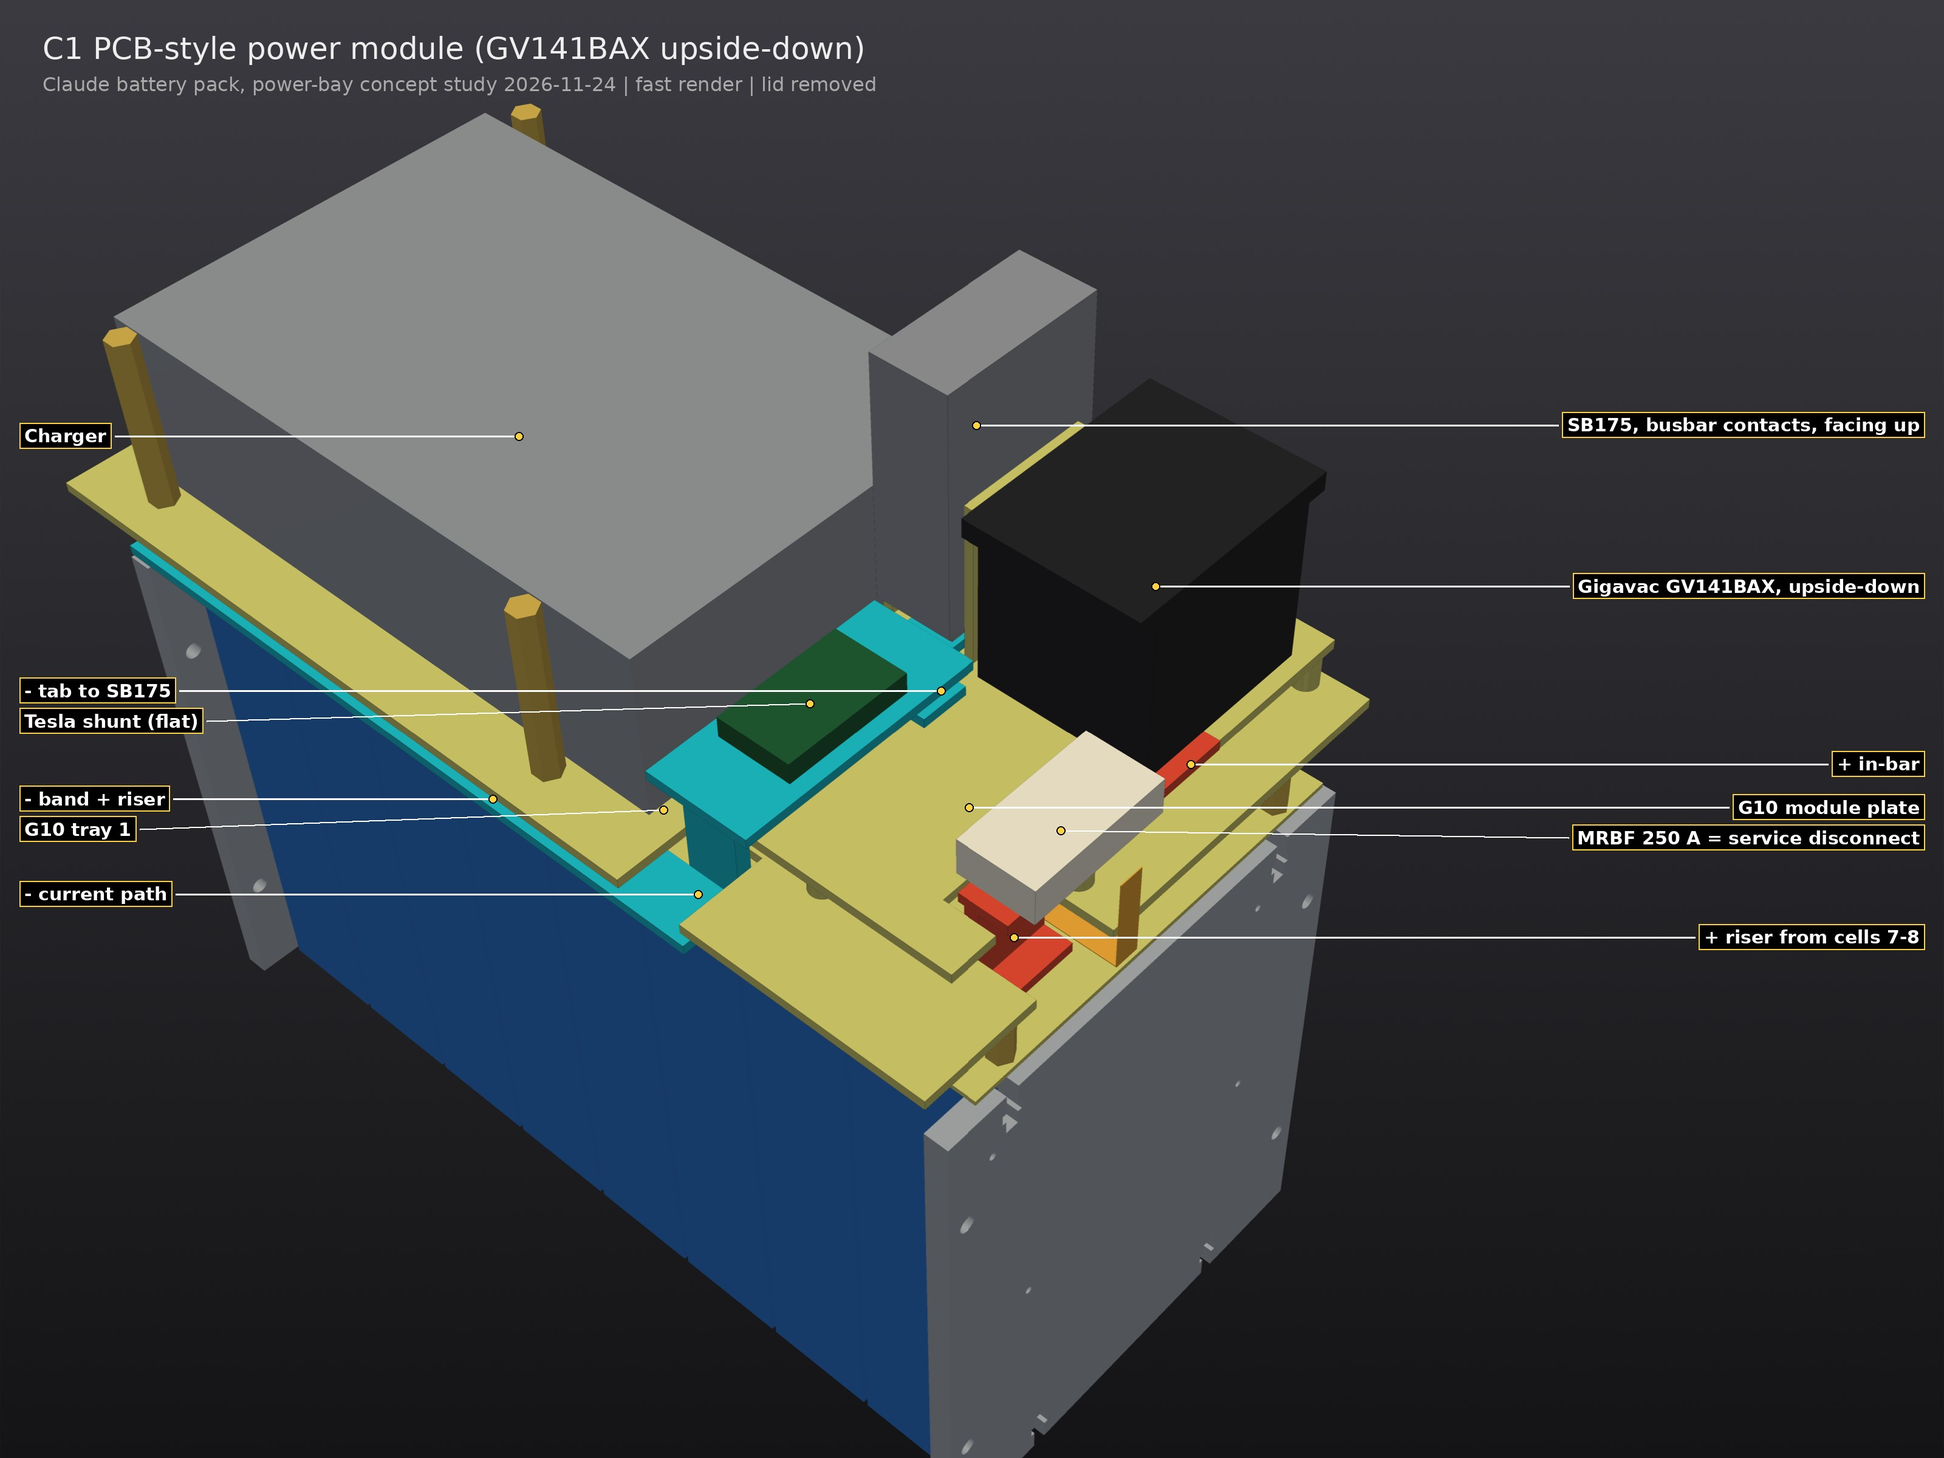
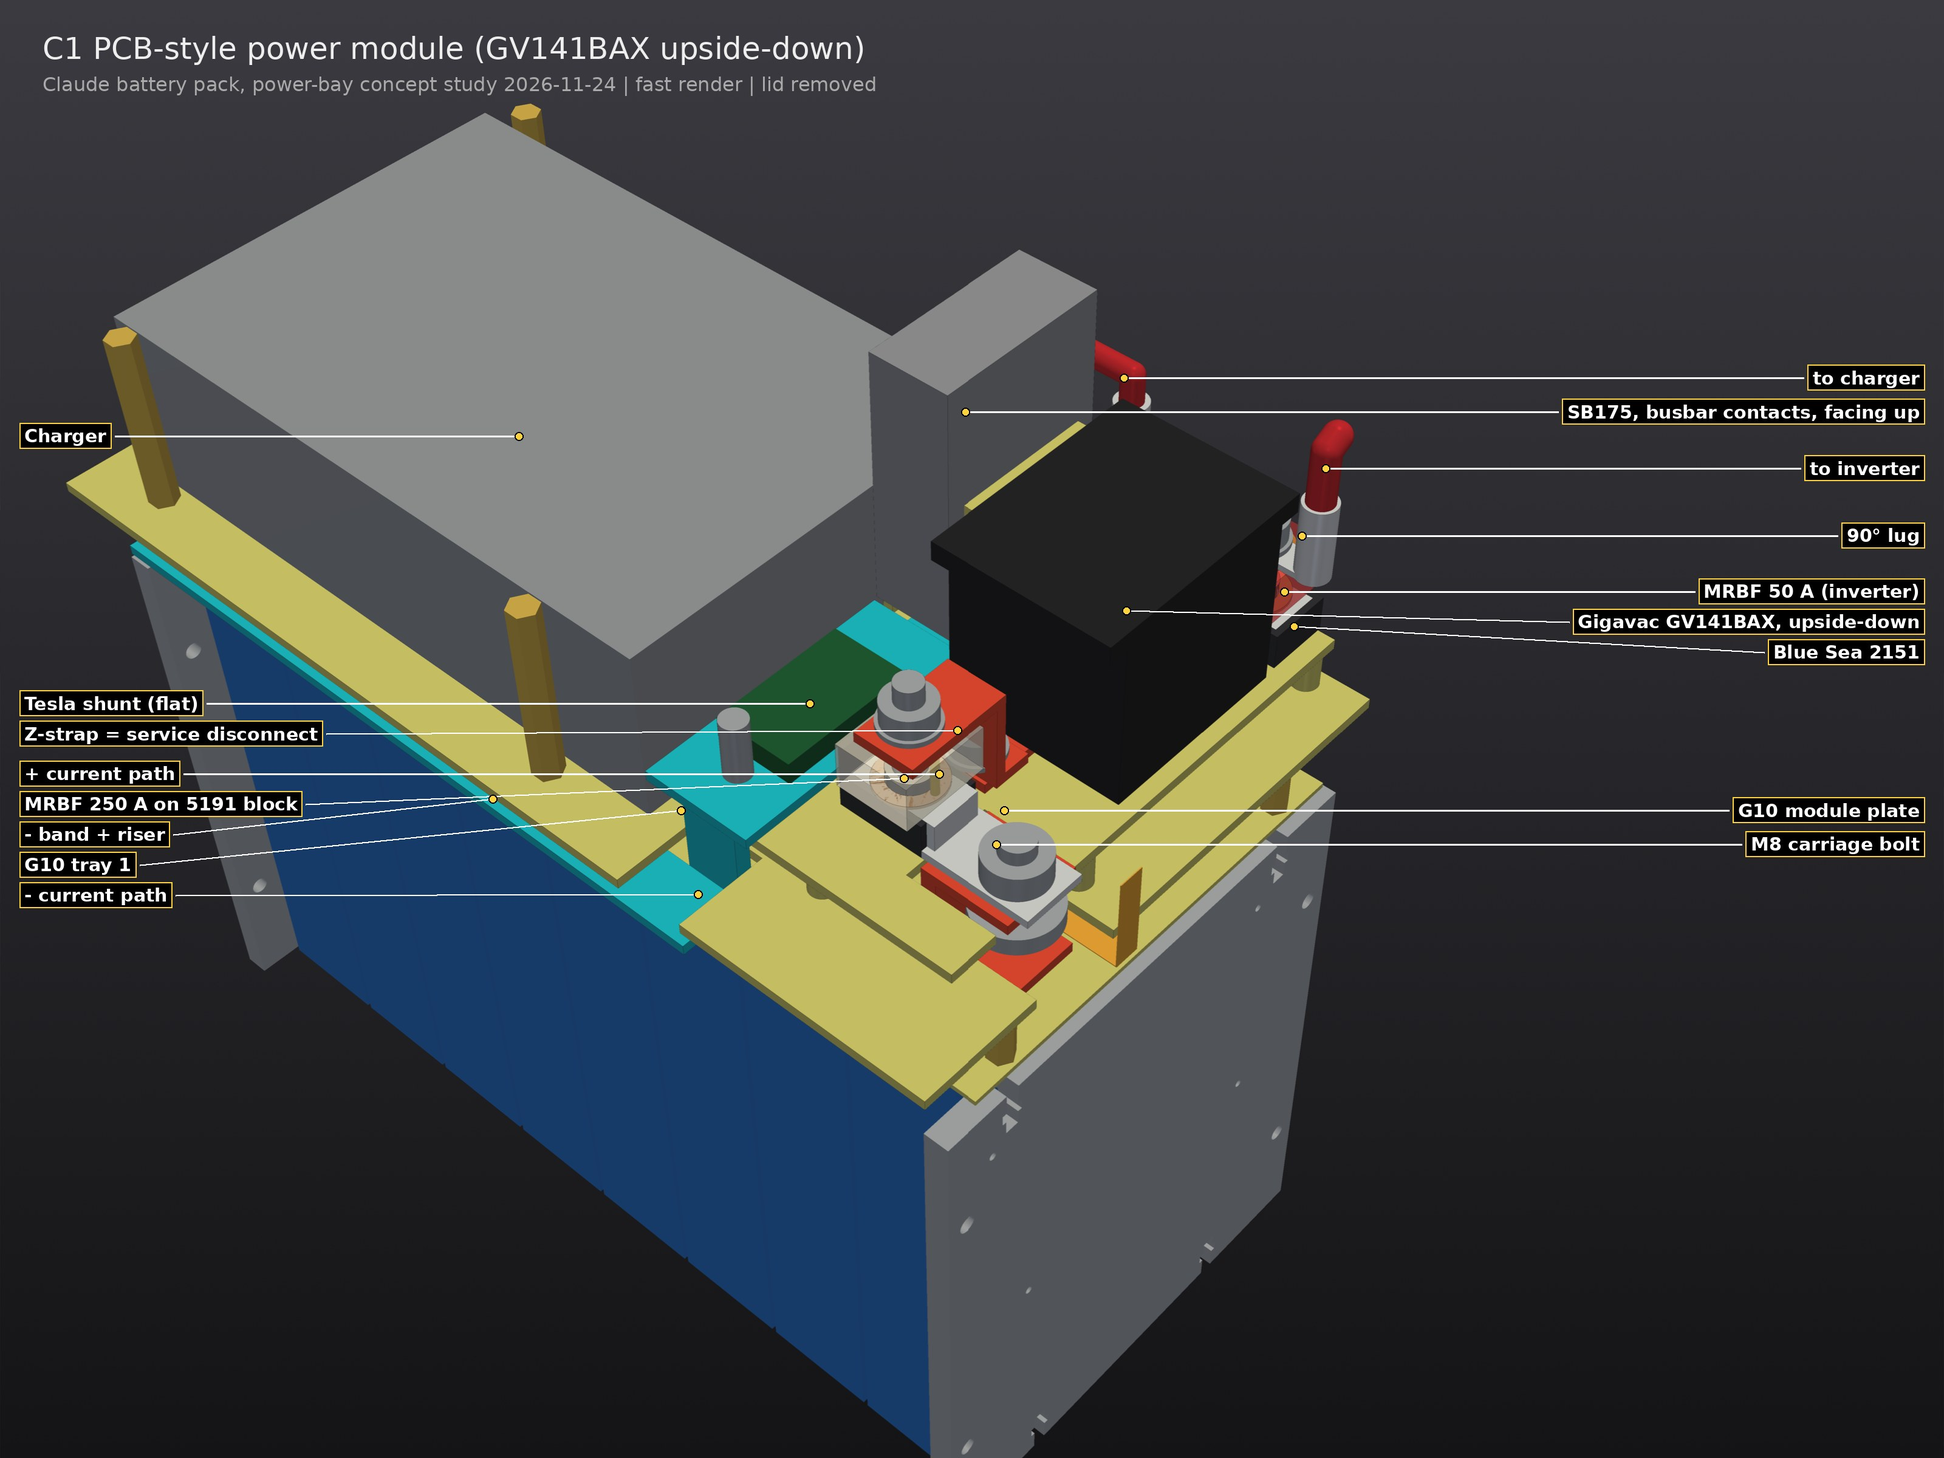
C1: real 5191 main fuse + Z-strap, 2151 on load-bar branch, contactor -11 y, riser to x 124, explicit hw allow list
Claude-Session: https://claude.ai/code/session_019xZm2J76p2BdyX92jNMr7E

diff --git a/cad/concepts/contactor/c1_power_module.py b/cad/concepts/contactor/c1_power_module.py
@@ -25,13 +25,15 @@ def build(variant="gv14"):
     for i, (x, y) in enumerate((sbn, sbp)):
         c.add(f"hw_stud_sb_{i}", cyl_z(x, y, Zp0 - 3.175 - 7.0, z_bus, 3.175))             # 180BBS 1/4-20 stud
         c.add(f"hw_locknut_sb_{i}", cyl_z(x, y, Zp0 - 3.175 - 5.6, Zp0 - 3.175, 6.4))     # 110G56 lock nut
-    for i, (x, y) in enumerate(((144.0, -33.5), (144.0, -1.0), (SBX, sh_y1 - 68.5 if False else -54.5))):
-        c.add(f"hw_carriage_{i}", cyl_z(x, y, Zp0 - 4.5, Zp1 + 22.0, 4.0))                 # M8 carriage bolt, square neck in a square hole
-        c.add(f"hw_carriage_head_{i}", cyl_z(x, y, Zp0 - 4.5 - 4.6, Zp0 - 4.5 + 0.01, 10.0))
+    # carriage bolts (square neck in a square hole), heads under the copper; M10 for the MRBF blocks, M8 elsewhere
+    for i, (x, y, r, rh, top) in enumerate(((144.0, -33.5, 5.0, 12.5, Zp1 + 15.0), (SBX, -54.5, 4.0, 10.0, Zp1 + 22.0),
+                                            (109.6, -9.5, 4.0, 10.0, Zp1 + 3.175 + 13.0), (70.7, 76.0, 5.0, 12.5, Zp1 + 15.0))):
+        c.add(f"hw_carriage_{i}", cyl_z(x, y, Zp0 - 4.5, top, r))
+        c.add(f"hw_carriage_head_{i}", cyl_z(x, y, Zp0 - 4.5 - 5.6, Zp0 - 4.5 + 0.01, rh))
     for i, x0 in enumerate((SBX - 12.7 - 3.2, SBX + 12.7)):        # G10 cheeks bolted through the housing's two mounting holes
         c.add(f"g10_sb_cheek_{i}", box(x0, x0 + 3.2, SBY - 22, SBY + 22, Zp1, Zp1 + 52), "ins")
     # ---------- switch ----------
-    CX, CY = 120.0, 41.2
+    CX, CY = 120.0, 30.2                 # -11 mm in y vs 2026-11-23: makes room for the 2151 along the +y wall
     if variant == "gv14":
         ct, (t1, t2) = gv14_pcb(CX, CY, Zp1, axis="y", flip=True)
         c.add("contactor_gv14_pcb", ct)
@@ -55,17 +57,40 @@ def build(variant="gv14"):
     # ---------- + path ----------
     # P4 collector -> vertical riser at the +x end -> flange at the module copper plane (in a plate notch)
     pc = pack_pos_collector()
-    pc += box(138.0, 142.76, -46.0, -21.0, Z0, Zp1)                    # riser (x 138: >= 10 mm from the upper standoff)
-    pc += box(136.0, 152.0, -46.0, -21.0, Zp0, Zp1)                     # flange, top flush with the module copper
+    pc += box(124.0, 128.76, -46.0, -21.0, Z0, Zp1)                    # riser (moved from x 138: the M10 head under the flange hit it)
+    pc += box(124.0, 152.0, -46.0, -21.0, Zp0, Zp1)                     # flange = 5191 seat, top flush with the module copper
     c.add("bus_pack_pos", pc, "pos")
-    inb = box(136.0, 152.0, -9.0, t1[1] + 8.0, Zp0, Zp1) + box(t1[0] - 8.0, 152.0, t1[1] - 8.0, t1[1] + 8.0, Zp0, Zp1)
+    inb = box(101.6, t1[0] + 8.0, t1[1] - 8.0, t1[1] + 8.0, Zp0, Zp1) + box(101.6, 117.6, -15.0, t1[1] - 8.0, Zp0, Zp1)
     c.add("bus_mod_in", inb, "pos")                                       # flat-cut L: no bends
-    c.add("mrbf_main", mrbf_link((144.0, -33.5), (144.0, -1.0), Zp1), "pos")
-    ld = box(SBX - 8.0, t2[0] + 8.0, t2[1] - 8.0, t2[1] + 8.0, Zp0, Zp1)  # load bar: T2 -> SB+ (straight)
-    ld += box(SBX - 8.0, SBX + 8.0, sbp[1] - 8.0, t2[1] + 8.0, Zp0, Zp1)
-    ld += box(78.0, 100.0, t2[1] + 8.0, 84.0, Zp0, Zp1)                  # branch tab for the converter fuses
+    # main fuse: Blue Sea 5191 on the M10 stud in the + flange, pointing -x; MRBF 250 A on it. Output is the fuse TOP,
+    # so a Z-strap (1/8 in copper, 22 wide, 2 bends) brings it back down to the in-bar. Strap = last part in = service disconnect.
+    mp, mst, mzt = bs_block("5191", 144.0, -33.5, Zp1, d=(-1, 0), prefix="bs5191")
+    for n, (sh, r) in mp.items():
+        c.add(n, sh, r)
+    c.add("hw_m10nut_main", cyl_z(144.0, -33.5, Zp1 + 2.5, Zp1 + 10.5, 9.25) - cyl_z(144.0, -33.5, Zp1, Zp1 + 12, 5.0))
+    sx, sy = mst[0]
+    zs1 = mzt + 3.175
+    st = box(sx - 8, sx + 11, -44.5, -10.8, mzt, zs1) + box(sx - 8, sx + 11, -14.0, -10.8, Zp1, zs1) + box(sx - 8, sx + 11, -14.0, -2.0, Zp1, Zp1 + 3.175)   # x >= 101.6: 10.9 mm to the - stud area
+    st -= cyl_z(sx, sy, mzt - 1, zs1 + 1, 4.3) + cyl_z(sx, -9.5, Zp1 - 1, Zp1 + 4.2, 4.3)
+    c.add("strap_main", st, "pos")
+    c.add("hw_nut_main", stud_stack(sx, sy, zs1) - cyl_z(sx, sy, zs1 - 1, zs1 + 10, 4.0))
+    c.add("hw_nut_strapfoot", stud_stack(sx, -9.5, Zp1 + 3.175) - cyl_z(sx, -9.5, Zp1, Zp1 + 14, 4.0))
+    ld = box(88.7, t2[0] + 8.0, t2[1] - 8.0, t2[1] + 8.0, Zp0, Zp1)      # load bar from T2 (x >= 88.7: 10 mm to the - tab corner)
+    ld += box(SBX - 8.0, 88.7, 43.2, 86.0, Zp0, Zp1)                       # SB+ pad + branch to the 2151 (y >= 43.2: 10.8 mm to the - tab)
     c.add("bus_mod_load", ld, "pos")
-    c.add("mrbf_branch_dual", box(77.0, 101.0, 72.0, 92.0, Zp1, Zp1 + 20.0))   # Blue Sea 2151 dual MRBF block UNCONFIRMED size
+    # Blue Sea 2151 dual MRBF on the M10 stud in the branch, along +x by the +y wall; fuses land beside the contactor
+    bp, bst, bzt = bs_block("2151", 70.7, 76.0, Zp1, d=(1, 0), prefix="bs2151")
+    for n, (sh, r) in bp.items():
+        c.add(n, sh, r)
+    c.add("hw_m10nut_2151", cyl_z(70.7, 76.0, Zp1 + 2.5, Zp1 + 10.5, 9.25) - cyl_z(70.7, 76.0, Zp1, Zp1 + 12, 5.0))
+    for (x, y), d, nm, rc, route in zip(bst, ((-1, 0), (1, 0)), ("charger", "inverter"), (3.4, 4.0),
+                                        (lambda p: [p, (p[0], p[1], 298.0), (40.0, p[1], 298.0)],
+                                         lambda p: [p, (p[0], p[1], 306.0), (p[0], 80.0, 308.0), (40.0, 80.0, 308.0)])):
+        lug, top = lug90(x, y, bzt, d=d)
+        c.add(f"lug_{nm}", lug - cyl_z(x, y, bzt - 1, bzt + 3, 4.0), "pos")
+        c.add(f"hw_nut_{nm}", stud_stack(x, y, bzt + 1.8) - cyl_z(x, y, bzt, bzt + 12, 4.0))
+        c.add(f"cable_{nm}", tube(route(top), rc))
+    c.add("cap_2151", bs_cap("2151", 70.7, 76.0, Zp1, d=(1, 0)))
     # ---------- - path ----------
     nb = pack_neg_band(80.0)
     nb += box(62.0, 80.0, -66.0, -61.24, Z0, Zp1)                       # riser in the band corridor
@@ -79,12 +104,12 @@ def build(variant="gv14"):
     c.add("bus_mod_neg", tab, "neg")
     # ---------- G10 plate (the 'PCB') + standoffs, tray 1 ----------
     pl = box(54.0, 150.0, -64.0, 88.0, Zp0 - 3.175, Zp0)
-    pl -= box(133.0, 151.0, -48.0, -19.0, 200, 300)                       # notch for the + riser flange
+    pl -= box(121.0, 151.0, -48.0, -19.0, 200, 300)                       # notch for the + riser flange
     pl -= box(60.0, 82.0, -65.0, -31.5, 200, 300)                         # notch for the - riser flange
     c.add("g10_plate", pl, "ins")
-    for i, (x, y) in enumerate(((58, -56), (146, -12), (58, 82), (146, 82), (100, -56))):
+    for i, (x, y) in enumerate(((58, -20), (146, -12), (58, 60), (146, 82), (100, -56))):
         c.add(f"standoff_{i}", cyl_z(x, y, Z_TRAY_TOP, Zp0 - 3.175, 4.0), "ins")
-    c.add("tray1", tray1(cuts=((136.0, 164.0, -48.0, -19.0), (60.0, 82.0, -89.0, -59.0))), "ins")
+    c.add("tray1", tray1(cuts=((122.0, 164.0, -48.0, -19.0), (60.0, 82.0, -89.0, -59.0))), "ins")
     # ---------- allow-list ----------
     c.allow += TRAY_ALLOW + [("standoff", "tray1"), ("standoff", "g10_plate"), ("g10_plate", "bus_mod"), ("g10_plate", "shunt"),
                              ("bus_mod", "contactor"), ("nut_m8", "g10_plate"), ("nut_m8", "bus_mod"), ("bus_mod", "fet"), ("bus_mod", "sb175"), ("bus_mod", "mrbf"), ("bus_pack_pos", "mrbf_main"),
@@ -92,22 +117,31 @@ def build(variant="gv14"):
                              ("g10_sb_cheek", "sb175_housing"), ("g10_sb_cheek", "g10_plate"), ("g10_sb_cheek", "bus_mod"), ("mrbf_branch", "bus_mod_load"),
                              ("sb175_housing", "lid"), ("bus_pack", "g10_top"), ("bus_pack", "flex_ccs"), ("bus_pack", "screws_term"),
                              ("bus_pack", "cell_"), ("bus_pack", "screws_tap"), ("bus_pack", "tray1"), ("fet_", "fet_"), ("sb175", "bus_mod"), ("contactor", "g10_plate"),
-                             ("bus_pack_pos", "bus_mod_in"), ("hw_", "")]
+                             ("bus_pack_pos", "bus_mod_in"), ("bs2151_", "bs2151_"), ("bs5191_", "bs5191_"), ("bs2151_strap", "bus_mod_load"),
+                             ("bs2151_body", "bus_mod_load"), ("bs5191_strap", "bus_pack_pos"), ("bs5191_body", "bus_pack_pos"),
+                             ("hw_m10nut", "bs"), ("hw_carriage", "bus_"), ("hw_carriage", "g10_plate"), ("hw_carriage", "bs"),
+                             ("hw_carriage", "hw_m10nut"), ("hw_carriage", "strap_main"), ("hw_carriage", "hw_nut_strapfoot"),
+                             ("hw_carriage", "shunt_bar"), ("hw_stud", "bus_mod"), ("hw_stud", "g10_plate"), ("hw_stud", "contactor"),
+                             ("hw_stud", "sb175"), ("hw_stud", "nut_m8"), ("hw_locknut", "g10_plate"), ("hw_locknut", "hw_stud"),
+                             ("hw_nut", "bs"), ("hw_nut", "lug_"), ("hw_nut", "strap_main"), ("lug_", "bs2151"),
+                             ("strap_main", "bs5191"), ("strap_main", "bus_mod_in"), ("cable_", "lug_"), ("cap_", ""), ("hw_carriage", "hw_carriage")]
     # ---------- current paths (centre lines) and joint/bend counts ----------
     zcol = (Z0 + Z1) / 2
-    c.paths["pos"] = [(134.0, -33.5, zcol), (140.4, -33.5, zcol), (140.4, -33.5, zc), (144.0, -33.5, zc), (144.0, -1.0, zc),
-                      (144.0, t1[1], zc), (t1[0], t1[1], zc), (t2[0], t2[1], zc), (SBX, t2[1], zc), (SBX, sbp[1], zc)]
+    c.paths["pos"] = [(100.0, -33.5, zcol), (126.4, -33.5, zcol), (126.4, -33.5, zc), (144.0, -33.5, zc), (144.0, -33.5, Zp1 + 1.25),
+                      (123.25, -33.5, Zp1 + 1.25), (123.25, -33.5, Zp1 + 9.75), (sx + 8.0, -33.5, Zp1 + 9.75), (sx + 8.0, -33.5, mzt + 1.6),
+                      (sx, -12.4, mzt + 1.6), (sx, -12.4, zc), (sx, -8.0, zc), (sx, t1[1], zc), (t1[0], t1[1], zc), (t2[0], t2[1], zc),
+                      (SBX, t2[1], zc), (SBX, sbp[1], zc)]
     c.paths["neg"] = neg_band_path(71.0, -63.6) + [(71.0, -63.6, zc), (71.0, sh_y1 - 68.5, zc), (71.0, sh_y1 - 15.0, zc),
                       (SBX, sbn[1], zc)]
-    c.joints = {"pos (after cell collector)": "MRBF in, MRBF out, T1, T2, SB+ = 5", "neg (after band)": "shunt A, shunt B, SB- = 3"}
-    c.bends = {"pos": "2 (riser) + 0 in the module (flat-cut L)", "neg": "2 (band riser) + 0 in the module"}
+    c.joints = {"pos (after cell collector)": "5191 tab (M10), fuse bottom, fuse top, strap foot, T1, T2, SB+ = 7", "neg (after band)": "shunt A, shunt B, SB- = 3"}
+    c.bends = {"pos": "2 (riser) + 2 (Z-strap) + 0 in the plane bars", "neg": "2 (band riser) + 0 in the module"}
     c.notes += ["Module copper in one plane z 235.1-238.3; contactor/SB terminals face down onto it",
                 "Module assembled upside-down on the bench; installs top-down; 2 bolts + MRBF join it to the pack",
-                "MRBF bridges + riser and module: installed last = service disconnect",
+                "Main MRBF on a 5191 on the + flange; Z-strap fuse top -> in-bar is installed last = service disconnect",
                 "Lid hole moves to the SB175 (x 58-83, y 10-66); v15 hole at x 89-116 must be re-cut"]
     c.labels = [("contactor_gv14_pcb", "Gigavac GV14 PCB-mount (terminals down)"), ("contactor_gv141", "Gigavac GV141BAX, upside-down"), ("hw_stud_ct", "Contactor M8 stud"), ("nut_m8", "M8 nut under the plate"), ("hw_stud_sb", "SB175 contact stud 1/4-20"), ("hw_locknut", "Lock nut under the plate"), ("hw_carriage_head", "Carriage bolt head"), ("hw_carriage_", "M8 carriage bolt"), ("fet_board", "FET switch board"),
-                ("sb175_housing", "SB175, busbar contacts, facing up"), ("mrbf_main", "MRBF 250 A = service disconnect"),
-                ("mrbf_branch", "Dual MRBF: charger, inverter"), ("shunt_module", "Tesla shunt (flat)"), ("g10_plate", "G10 module plate"),
+                ("sb175_housing", "SB175, busbar contacts, facing up"), ("bs5191_fuse", "MRBF 250 A on 5191 block"), ("strap_main", "Z-strap = service disconnect"),
+                ("bs2151_fuse_0", "MRBF 30 A (charger)"), ("bs2151_fuse_1", "MRBF 50 A (inverter)"), ("bs2151_body", "Blue Sea 2151"), ("lug_", "90° lug"), ("cable_charger", "to charger"), ("cable_inverter", "to inverter"), ("shunt_module", "Tesla shunt (flat)"), ("g10_plate", "G10 module plate"),
                 ("bus_pack_pos", "+ riser from cells 7-8"), ("bus_pack_neg", "- band + riser"), ("bus_mod_load", "+ load bar"),
                 ("bus_mod_in", "+ in-bar"), ("bus_mod_neg", "- tab to SB175"), ("tray1", "G10 tray 1"), ("charger", "Charger"),
                 ("g10_sb_cheek", "G10 cheeks (SB175 mount)"), ("path_pos", "+ current path"), ("path_neg", "- current path")]

diff --git a/cad/concepts/contactor/shoot.py b/cad/concepts/contactor/shoot.py
@@ -9,7 +9,7 @@ V = {"iso": dict(view=(0.75, -0.85, 1.15), focal=(100, 0, 235), dist=430),
      "iso2": dict(view=(-0.55, -1.0, 0.75), focal=(100, 5, 245), dist=470),
      "top": dict(view=(0.0, 0.0, 1.0), focal=(95, 5, 240), dist=520, up=(1, 0, 0)),
      "xray": dict(view=(0.75, -0.85, 1.15), focal=(100, 0, 235), dist=430,
-                  xray=("contactor", "sb175_housing", "mrbf", "shunt_module", "g10_sb_cheek", "charger", "fet_parts", "fet_driver")),
+                  xray=("contactor", "sb175_housing", "mrbf", "bs2151_body", "bs5191_body", "shunt_module", "g10_sb_cheek", "charger", "fet_parts", "fet_driver")),
      "front": dict(view=(1.0, -0.12, 0.18), focal=(100, 5, 250), dist=520),
      "side": dict(view=(0.0, -1.0, 0.12), focal=(100, 5, 255), dist=520),
      "lid": dict(view=(1.0, -0.95, 0.85), focal=(100, 5, 265), dist=560)}
@@ -20,5 +20,5 @@ for v in views:
     if v == "lid":
         extra = dict(ghost_lid=True)
     f = shot(key, roles, labels, f"{key}_{v}.png", meta["title"], sub if v != "lid" else sub.replace("lid removed", "lid shown transparent"),
-             hide=("inverter", "tray2", "body_half_A", "ledboard_f", "ctrl_") if v in ("iso", "top", "iso2", "xray") else (), **kw, **extra)
+             hide=("inverter", "tray2", "body_half_A", "ledboard_f", "ctrl_", "cap_") if v in ("iso", "top", "iso2", "xray") else (), **kw, **extra)
     print(f)

diff --git a/cad/concepts/contactor/lib.py b/cad/concepts/contactor/lib.py
@@ -154,14 +154,16 @@ class Concept:
         for a, b in itertools.combinations(self.parts, 2):
             if self.allowed(a, b) or not bb_overlap(bbs[a], bbs[b]):
                 continue
-            v = (self.parts[a] & self.parts[b]).volume
+            x = self.parts[a] & self.parts[b]
+            v = x.volume if x is not None else 0.0
             if v > 0.5:
                 bad.append((a, b, round(v, 1)))
         for a in self.parts:
             for b in C:
                 if self.allowed(a, b) or not bb_overlap(bbs[a], cbb[b]):
                     continue
-                v = (self.parts[a] & C[b]).volume
+                x = self.parts[a] & C[b]
+                v = x.volume if x is not None else 0.0
                 if v > 0.5:
                     bad.append((a, b, round(v, 1)))
         res["interferences"] = bad

diff --git a/docs/contactor-mounting.md b/docs/contactor-mounting.md
@@ -239,7 +239,7 @@ Model: `cad/concepts/contactor/lib.py` (`bs_block`, `bs_cap`, `lug90`, `stud_sta
 - **T8. Two studs in a row, cables leaving along that row: the far lug hits the near stud.** In C1 ±y is blocked by the wall (7 mm rule) and the contactor. Use 90° lugs (barrel up), one pointing −x, one +x. Buy: Del City 929605 (6 AWG, 5/16", ~$2.55 ea, min 5) and Zoro MAX 5950-050EL (8 AWG, 90°, $14.29 per 50), checked 2026-11-24.
 - **T9. ALLOW-list wildcard `("hw_","")` hid a real clash.** The M10 bolt head under the + flange at (144, −33.5) overlaps the + riser at x 138–142.76. Fix: move the riser to x 124 and enlarge the flange to x 124–152.
 
-**Fit in C1 (worked out, not yet applied to `c1_power_module.py`)**
+**Fit in C1 (applied to `c1_power_module.py` 2026-11-24; all 3 variants: 0 interferences, + to − 10.4 mm (5191 strap to shunt bar), pack to chassis 7.3 mm, + path 306 mm with 59 mm climb / 30 mm drop, 7 joints)**
 - **Contactor:** −11 mm in y (CY 41.2 → 30.2).
 - **2151:** along x at y 76, M10 hole at (70.7, 76) on a load-bar branch x 62.7–88.7, y 43.2–86. Fuses land at x 105/131 beside the contactor. Metal to the +y wall 7.4 mm.
 - **Load bar near the SB175:** must stay y ≥ 42.4 to keep 10 mm to the − tab.
@@ -251,4 +251,9 @@ Model: `cad/concepts/contactor/lib.py` (`bs_block`, `bs_cap`, `lug90`, `stud_sta
 - ⚠ MRBF contact-face sizes.
 - ⚠ 90° lug dims.
 - ⚠ SendCutSend copper bend for the Z-strap.
-- Apply the C1 changes above and re-run the checks.
+- Shown below: `c1_module_gv14up_iso.jpg`, `c1_module_gv14up_top.jpg`. The ALLOW wildcard `("hw_","")` is replaced by explicit pairs; that exposed and fixed a carriage head vs standoff clash (standoff (58,−56) → (58,−20)).
+- §6 figures (sections, levels, profile) predate this change; regenerate them.
+- The − leads for the charger and inverter are not placed yet.
+
+![C1 with real fuse blocks](img/contactor/c1_module_gv14up_iso.jpg)
+![C1 top](img/contactor/c1_module_gv14up_top.jpg)
